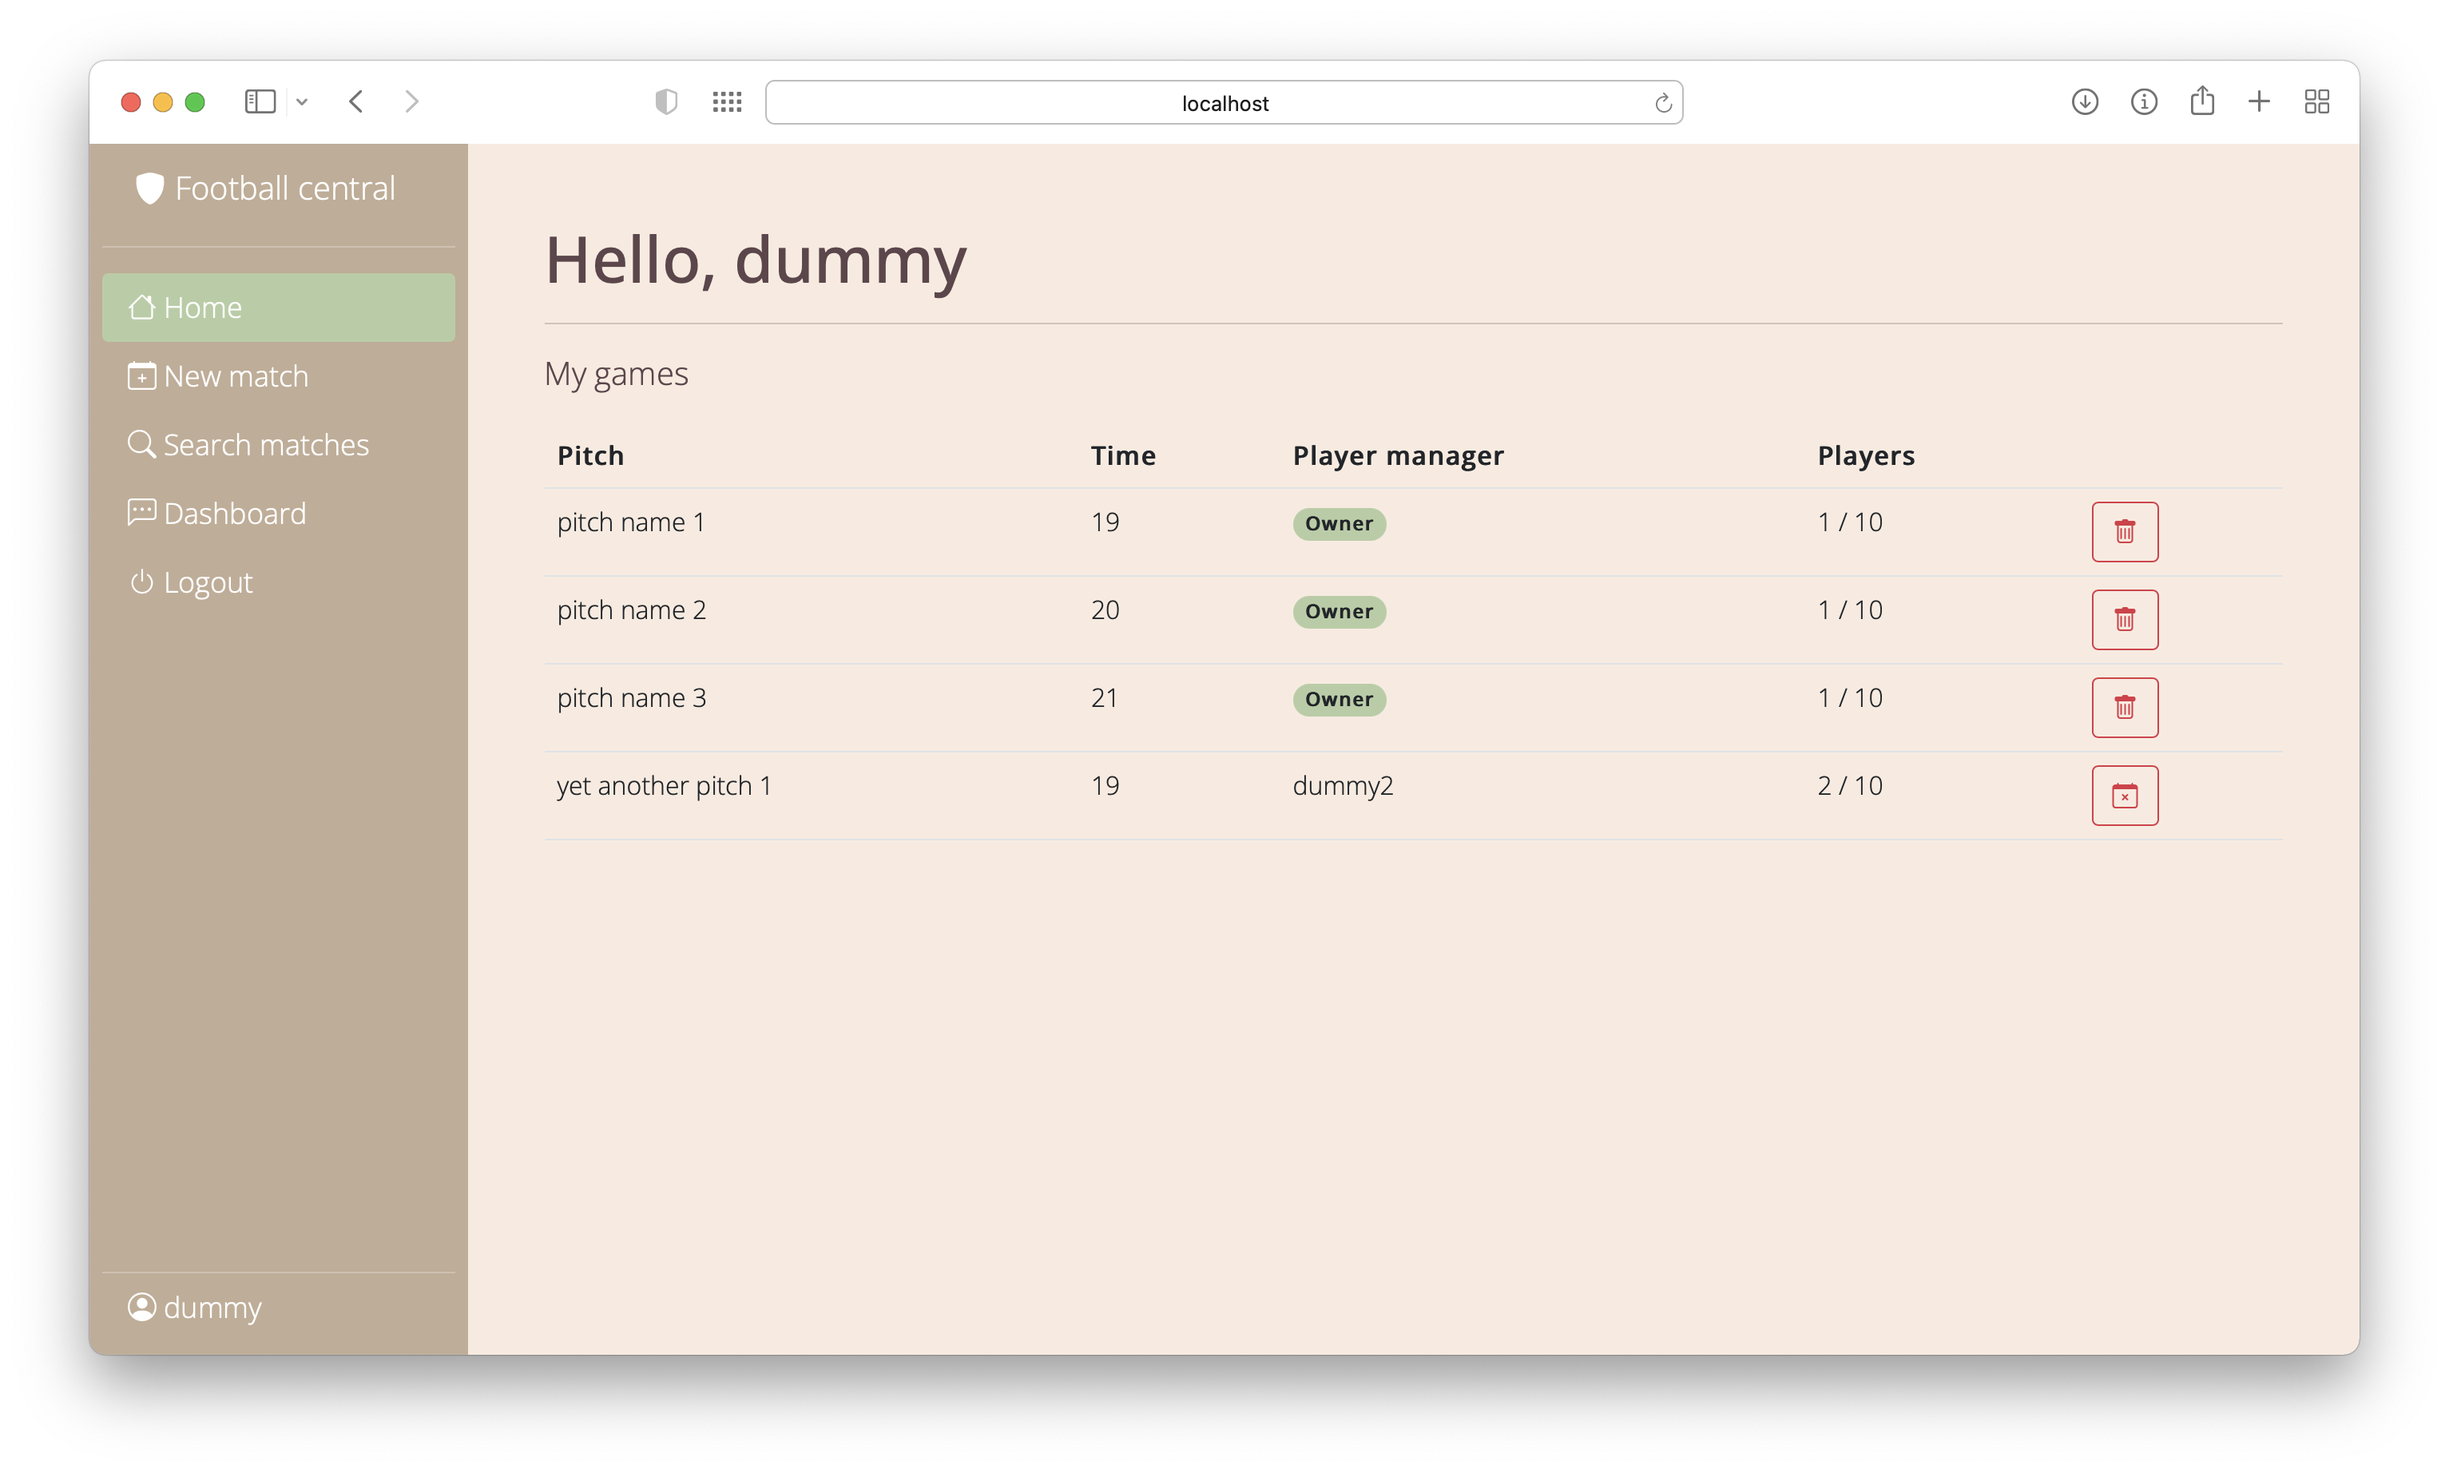
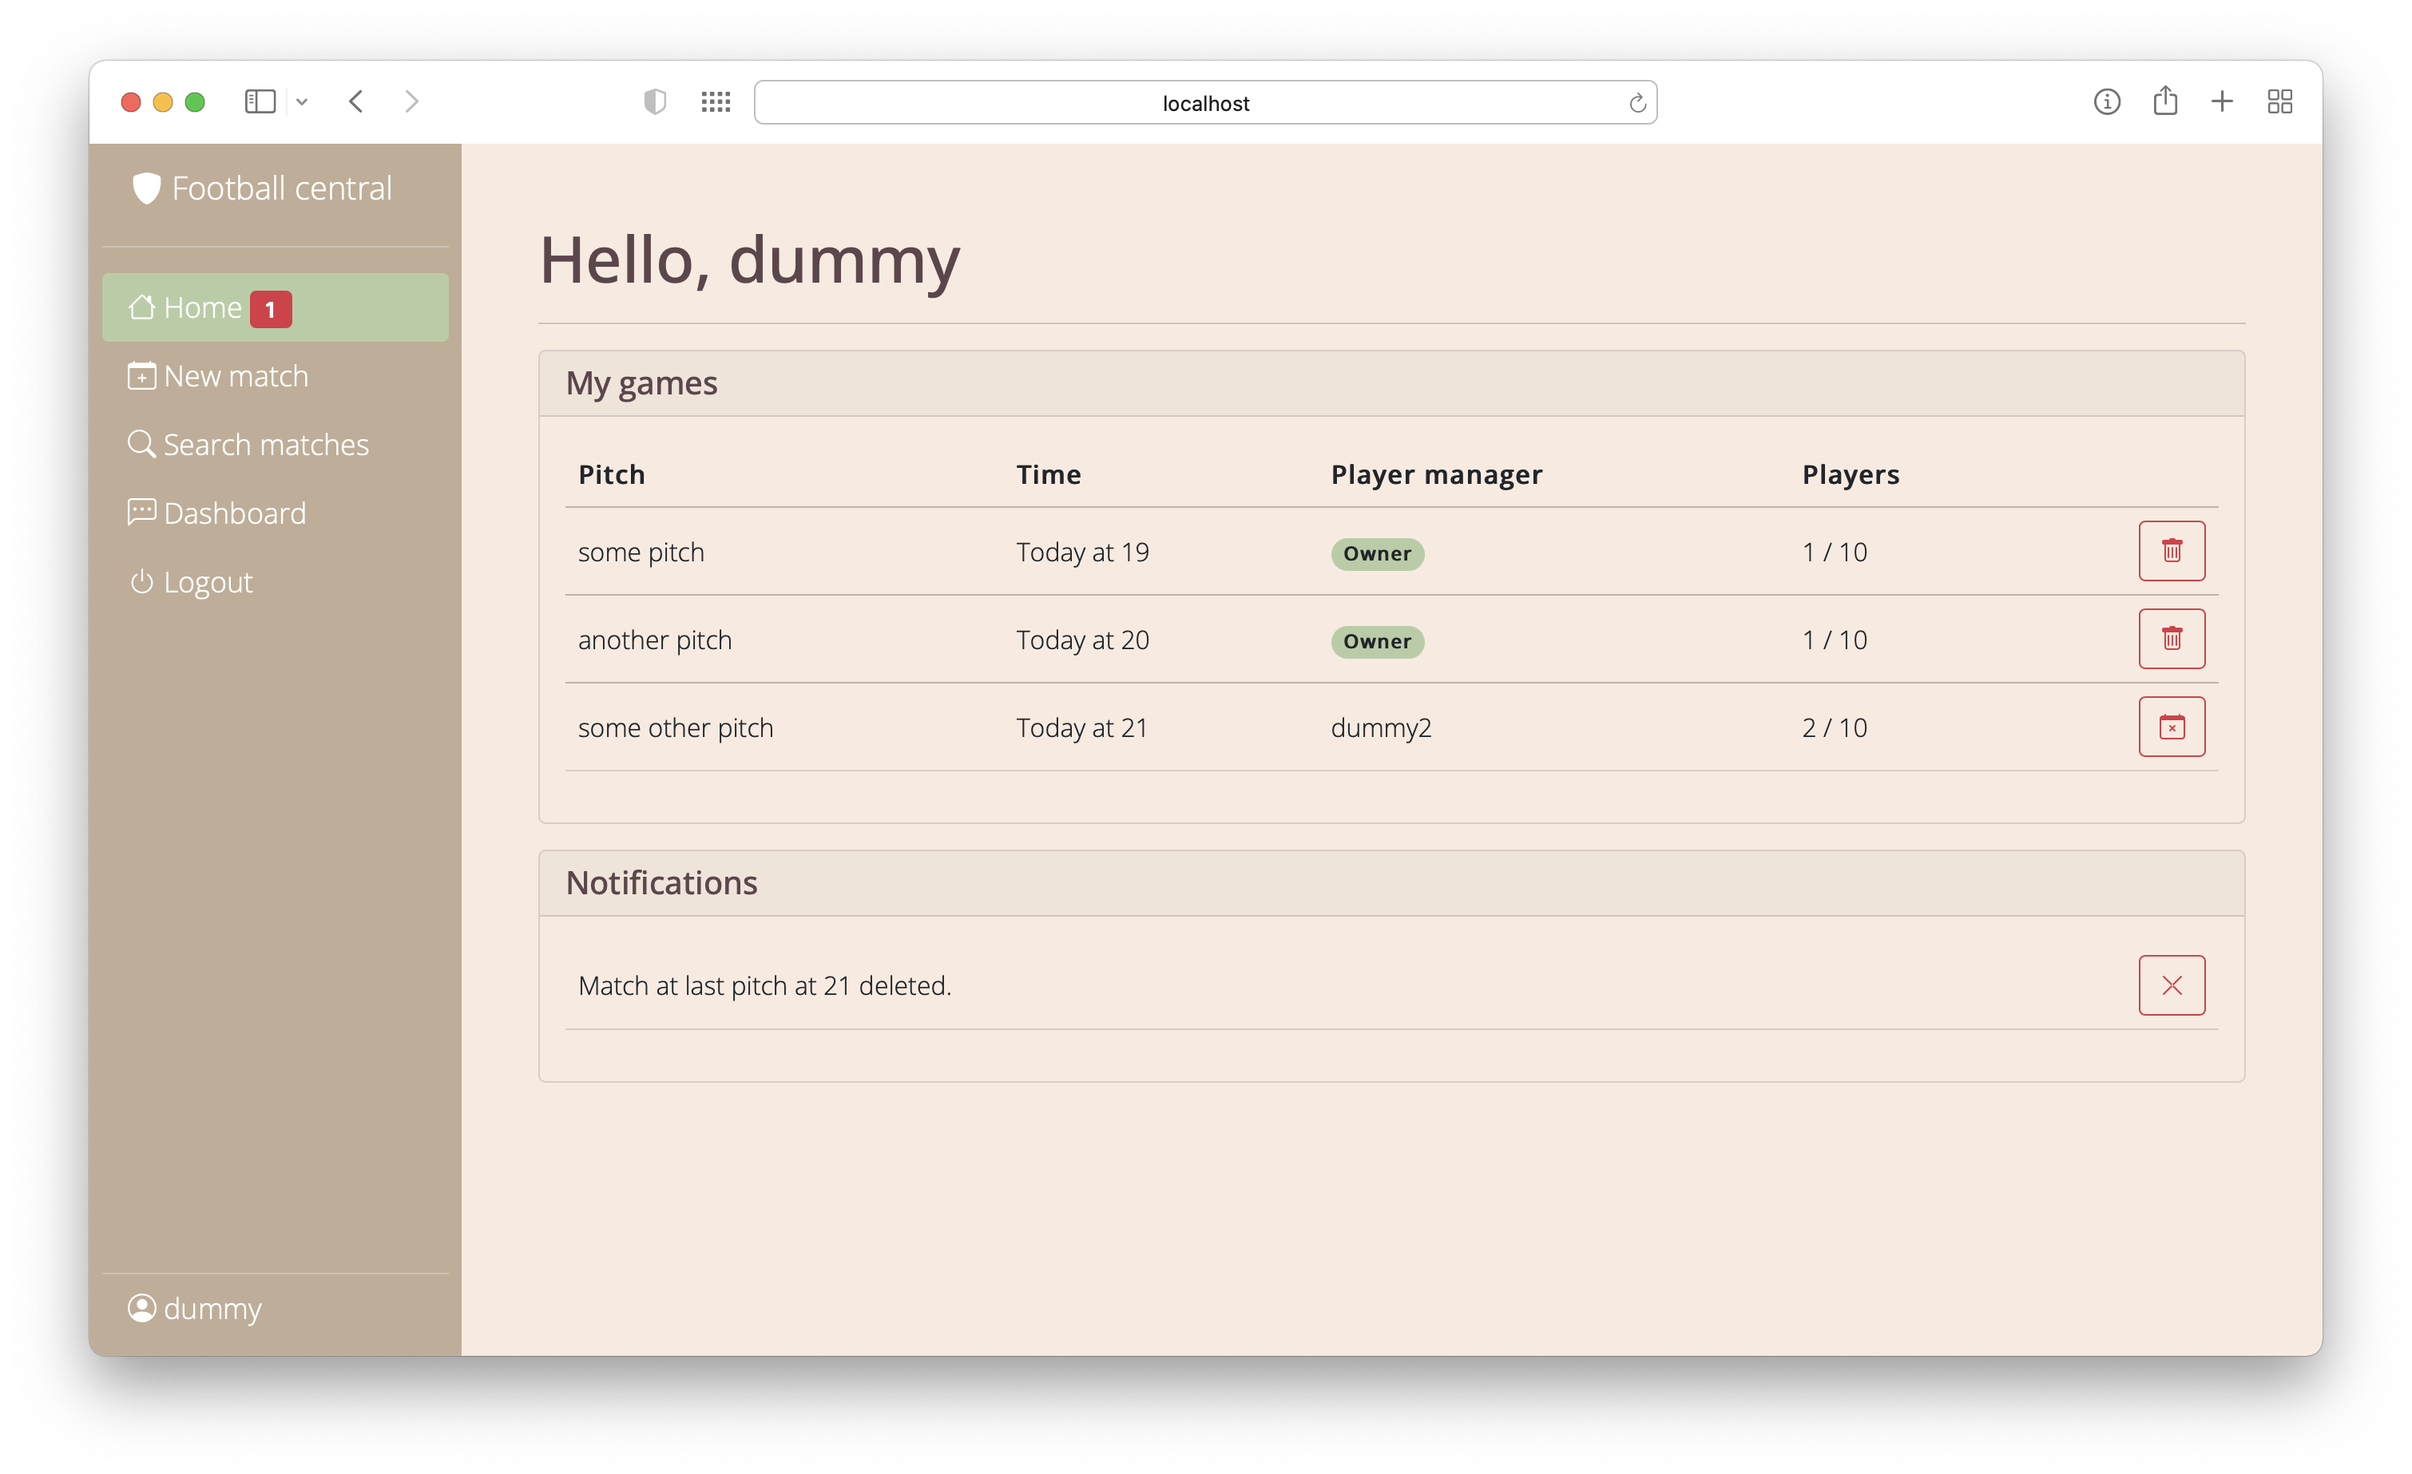
minor changes

diff --git a/web-server/src/main/resources/templates/fragments/main.html b/web-server/src/main/resources/templates/fragments/main.html
@@ -27,7 +27,7 @@
                     <tr th:if="${game.playerManager} == ${#authentication.name}" th:each="game: ${games}">
                         <form th:action="@{/home/games/delete(id=${game.gameId})}" th:method="post">
                             <td th:text="${game.pitchName}"></td>
-                            <td th:text="'Today @ ' + ${game.time}"></td>
+                            <td th:text="'Today at ' + ${game.time}"></td>
                             <td><span class="badge rounded-pill bg-info text-dark">Owner</span></td>
                             <td th:text="${#lists.size(game.players)} + ' / 10'"></td>
                             <td class="text-end">
@@ -38,7 +38,7 @@
                     <tr th:unless="${game.playerManager} == ${#authentication.name}" th:each="game: ${games}">
                         <form th:action="@{/home/games/unbook(id=${game.gameId})}" th:method="post">
                             <td th:text="${game.pitchName}"></td>
-                            <td th:text="${game.time}"></td>
+                            <td th:text="'Today at ' + ${game.time}"></td>
                             <td th:text="${game.playerManager}"></td>
                             <td th:text="${#lists.size(game.players)} + ' / 10'"></td>
                             <td class="text-end"><button class="btn btn-outline-danger" type="submit"><i class="bi bi-calendar-x"></i></button></td>

diff --git a/web-server/src/main/resources/templates/fragments/dashboard.html b/web-server/src/main/resources/templates/fragments/dashboard.html
@@ -34,7 +34,7 @@
                         <tr th:each="game: ${games}">
                             <form th:action="@{/home/dashboard/read(id=${game.gameId})}" th:method="post">
                                 <td th:text="${game.pitchName}"></td>
-                                <td th:text="'Today @ ' + ${game.time}"></td>
+                                <td th:text="'Today at ' + ${game.time}"></td>
                                 <td class="text-end">
                                     <button class="btn btn-outline-warning"
                                             th:classappend="${activeGame} == ${game.gameId} ? 'active-chat':''"

diff --git a/web-server/src/main/resources/templates/fragments/search.html b/web-server/src/main/resources/templates/fragments/search.html
@@ -20,7 +20,7 @@
         <tr th:each="game: ${games}">
             <form th:action="@{/home/search/book(id=${game.gameId})}" th:method="post">
                 <td th:text="${game.pitchName}"></td>
-                <td th:text="'Today @ ' + ${game.time}"></td>
+                <td th:text="'Today at ' + ${game.time}"></td>
                 <td th:text="${game.playerManager}"></td>
                 <td th:text="${#lists.size(game.players)} + ' / 10'"></td>
                 <td class="text-end">

diff --git a/web-server/src/main/resources/templates/fragments/newmatch.html b/web-server/src/main/resources/templates/fragments/newmatch.html
@@ -17,7 +17,7 @@
             </div>
         </div>
         <div class="row mb-3">
-            <label class="col-sm-2 col-form-label col-form-label-lg" for="time">Today @ time</label>
+            <label class="col-sm-2 col-form-label col-form-label-lg" for="time">Today at </label>
             <div class="col-sm-10">
                 <select class="form-select form-select-lg" id="time" th:field="*{time}" required>
                     <option value="19" selected>19</option>

diff --git a/web-server/src/main/java/it/unipi/webserver/service/SQLDatabase.java b/web-server/src/main/java/it/unipi/webserver/service/SQLDatabase.java
@@ -99,7 +99,7 @@ public class SQLDatabase {
             deleteGame(game);
             for(Player p: game.getPlayers()) {
                 if(!game.isPlayerManager(p.getUserName())) {
-                    postNotification(p.getUserName(), "Match " + game + " deleted.");
+                    postNotification(p.getUserName(), "Match deleted: " + game + ".");
                 }
             }
         } catch(ObjectOptimisticLockingFailureException e) {

diff --git a/web-server/src/main/java/it/unipi/webserver/entity/Game.java b/web-server/src/main/java/it/unipi/webserver/entity/Game.java
@@ -57,6 +57,6 @@ public class Game implements Serializable {
         return players.contains(p);
     }
     public String toString() {
-        return pitchName + " " + time;
+        return pitchName + " at " + time;
     }
 }
